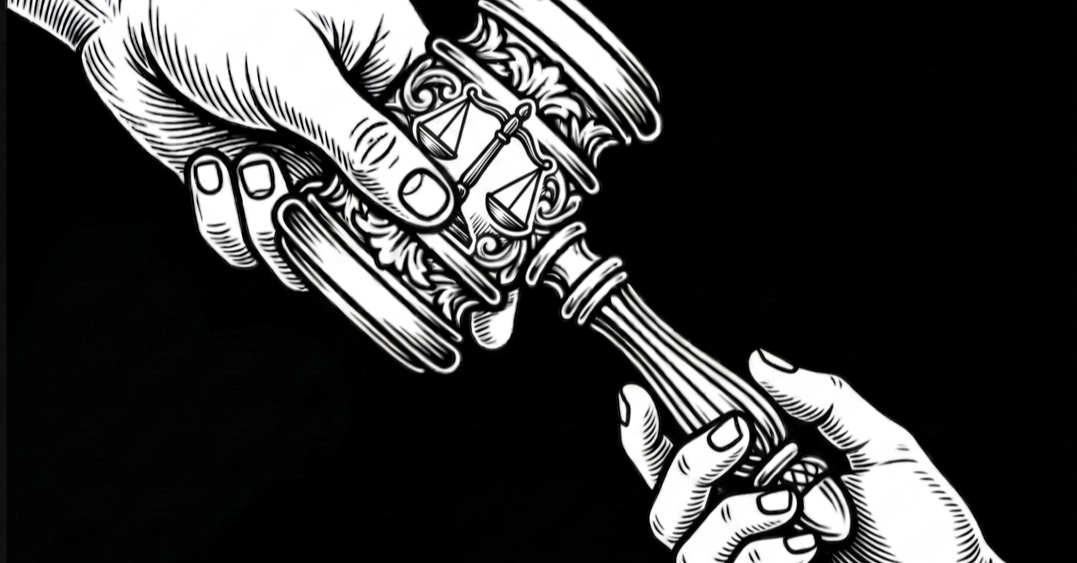
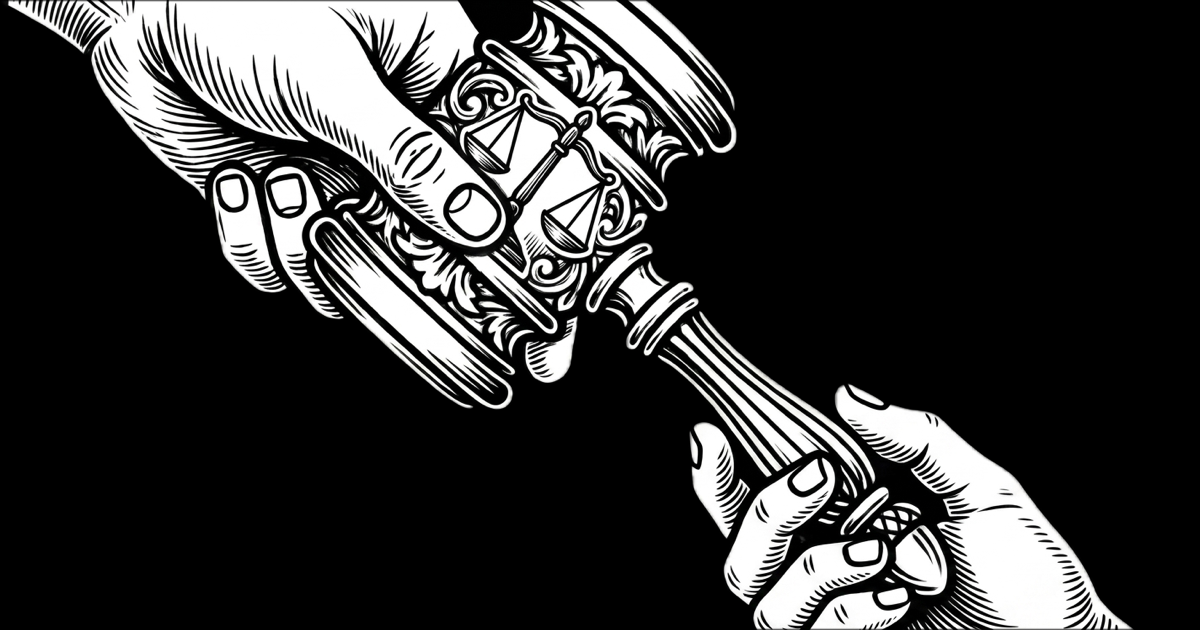
Update og image for whapp

Changed region(s): [[0.0, 0.0, 0.9499, 1.0]]

diff --git a/CLAUDE.md b/CLAUDE.md
@@ -90,3 +90,13 @@ The form (`#waitlist`) has no backend. On submit it shows `#cta-thanks` and disa
 ## Analytics
 
 Google Analytics 4 (GA-W4QVKY0PQE) with custom events: `waitlist_signup`, `launch_cta_click`.
+
+## Resize de imagenes
+
+Se puede hacer con sips:
+
+`sips -z 630 1200 input.png --out output.png`
+
+Si se quiere cubrir el canal alpha con black:
+
+`sips -z 630 1200 --padColor 000000 input.png --out output.png`
